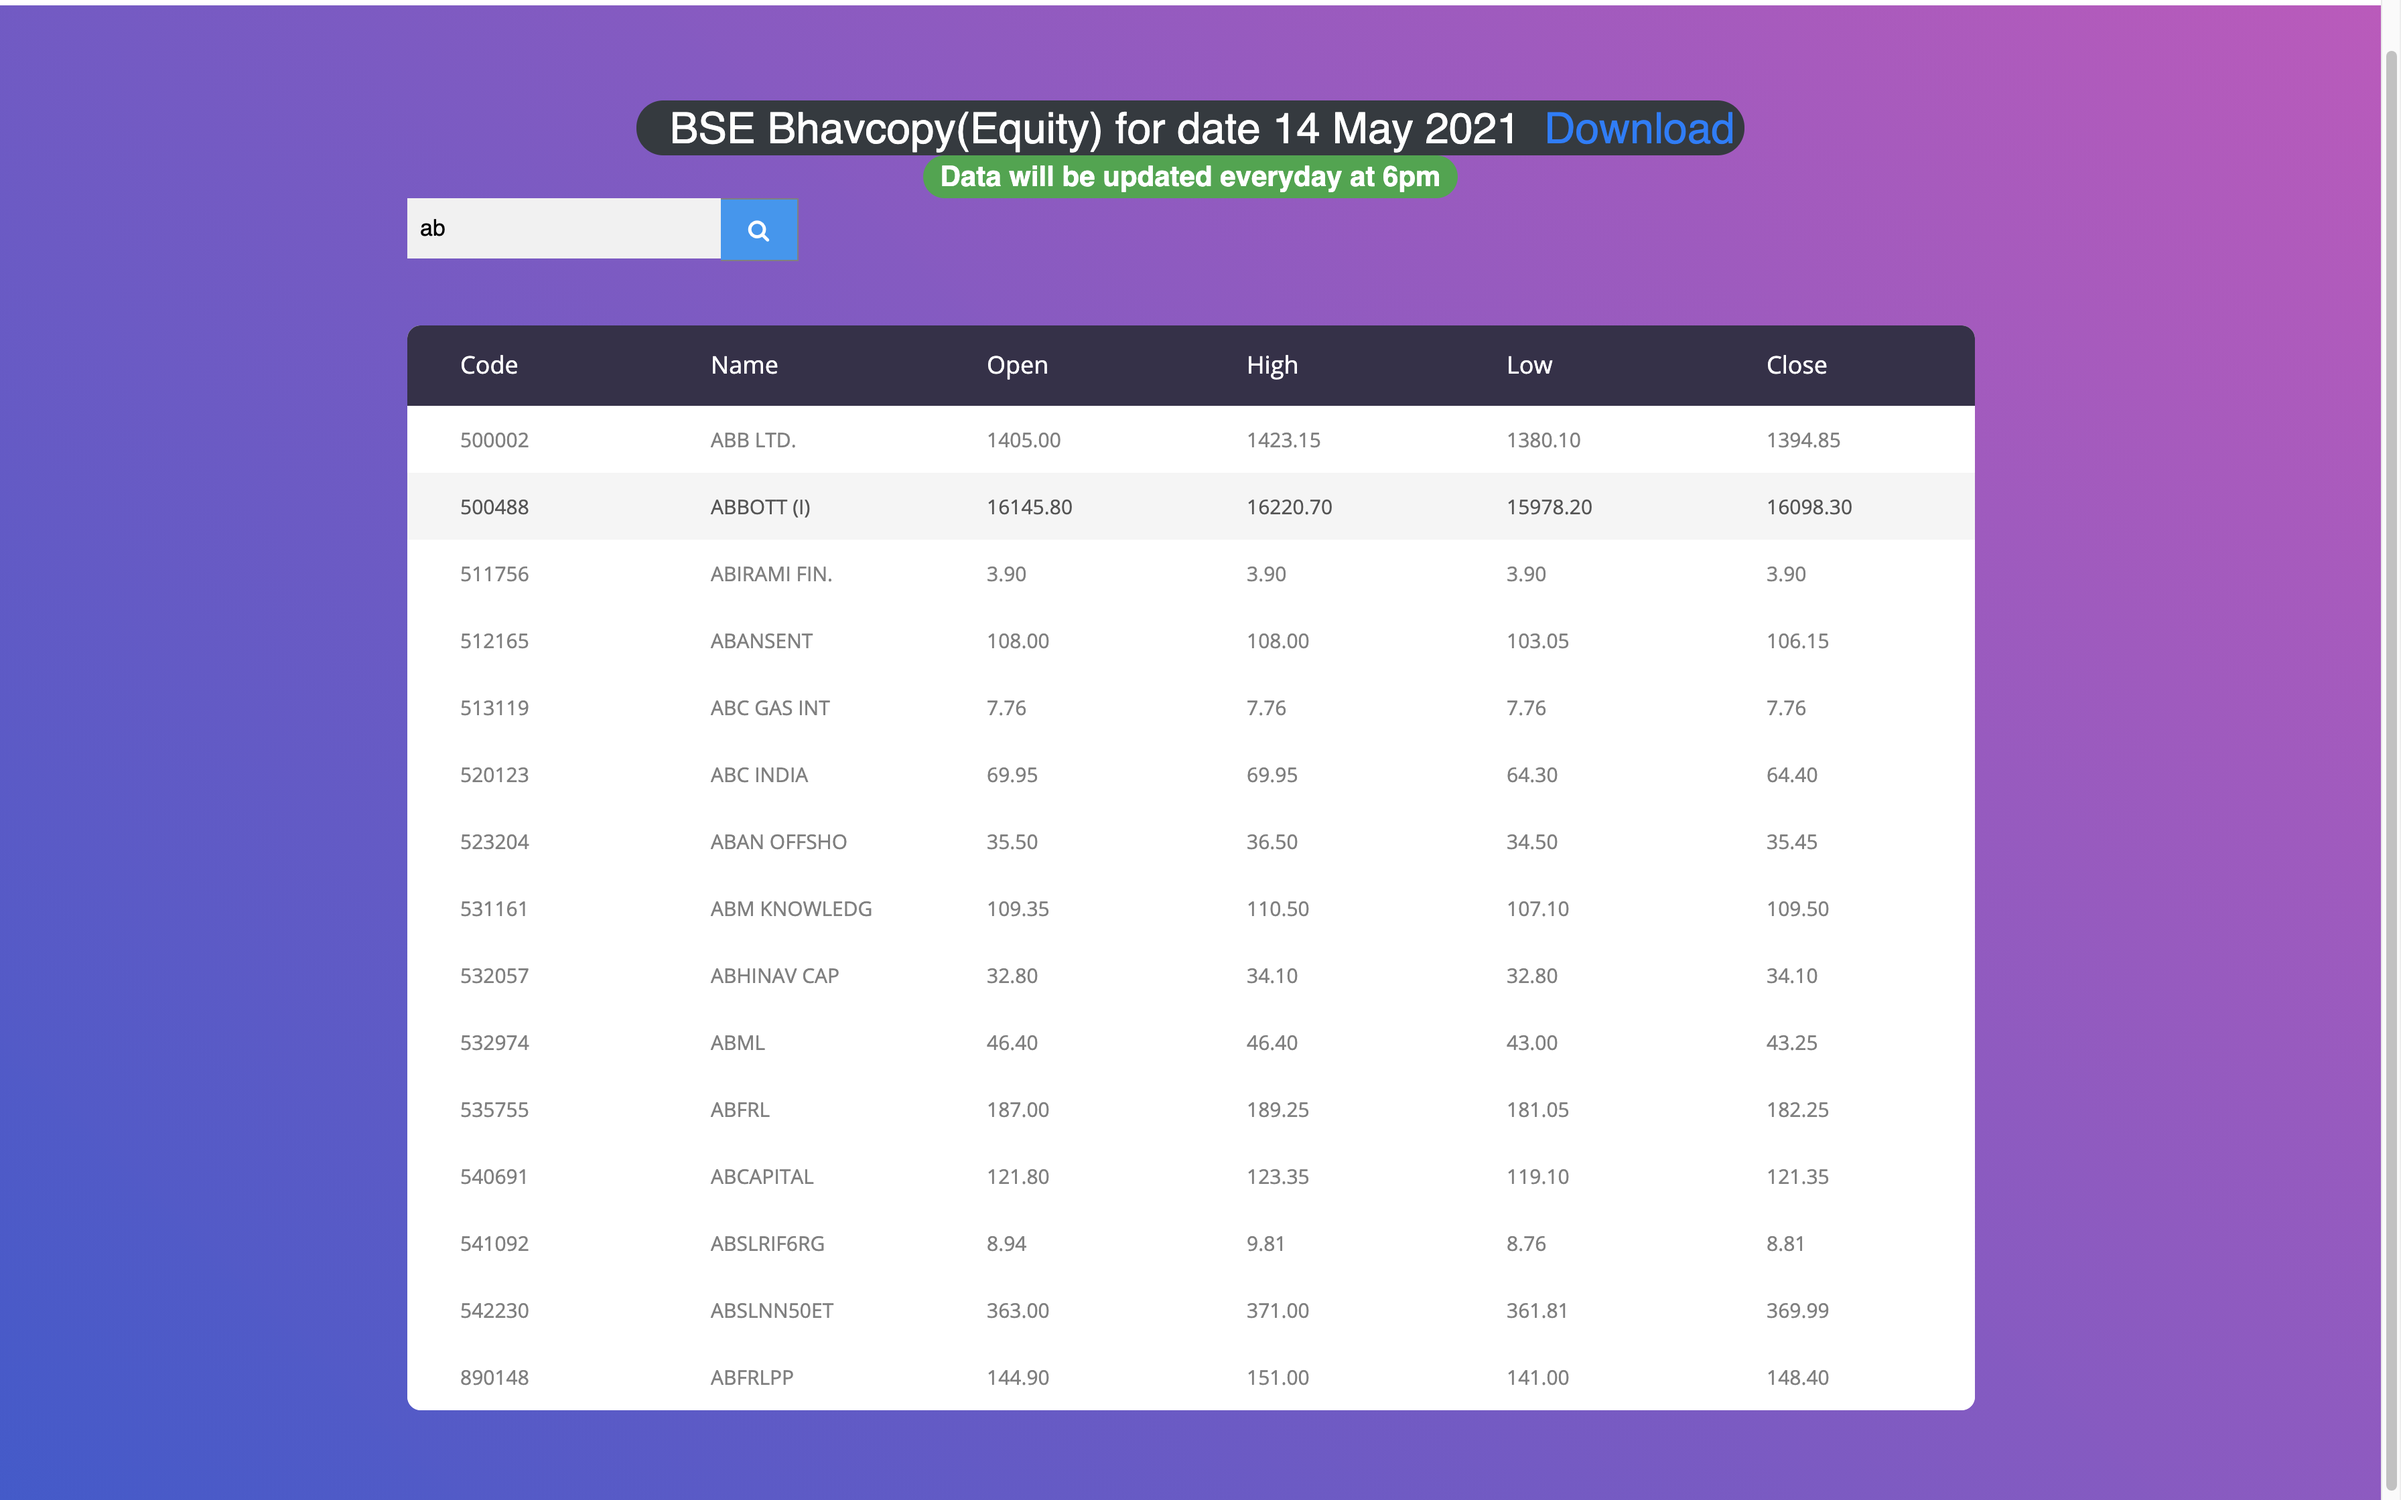
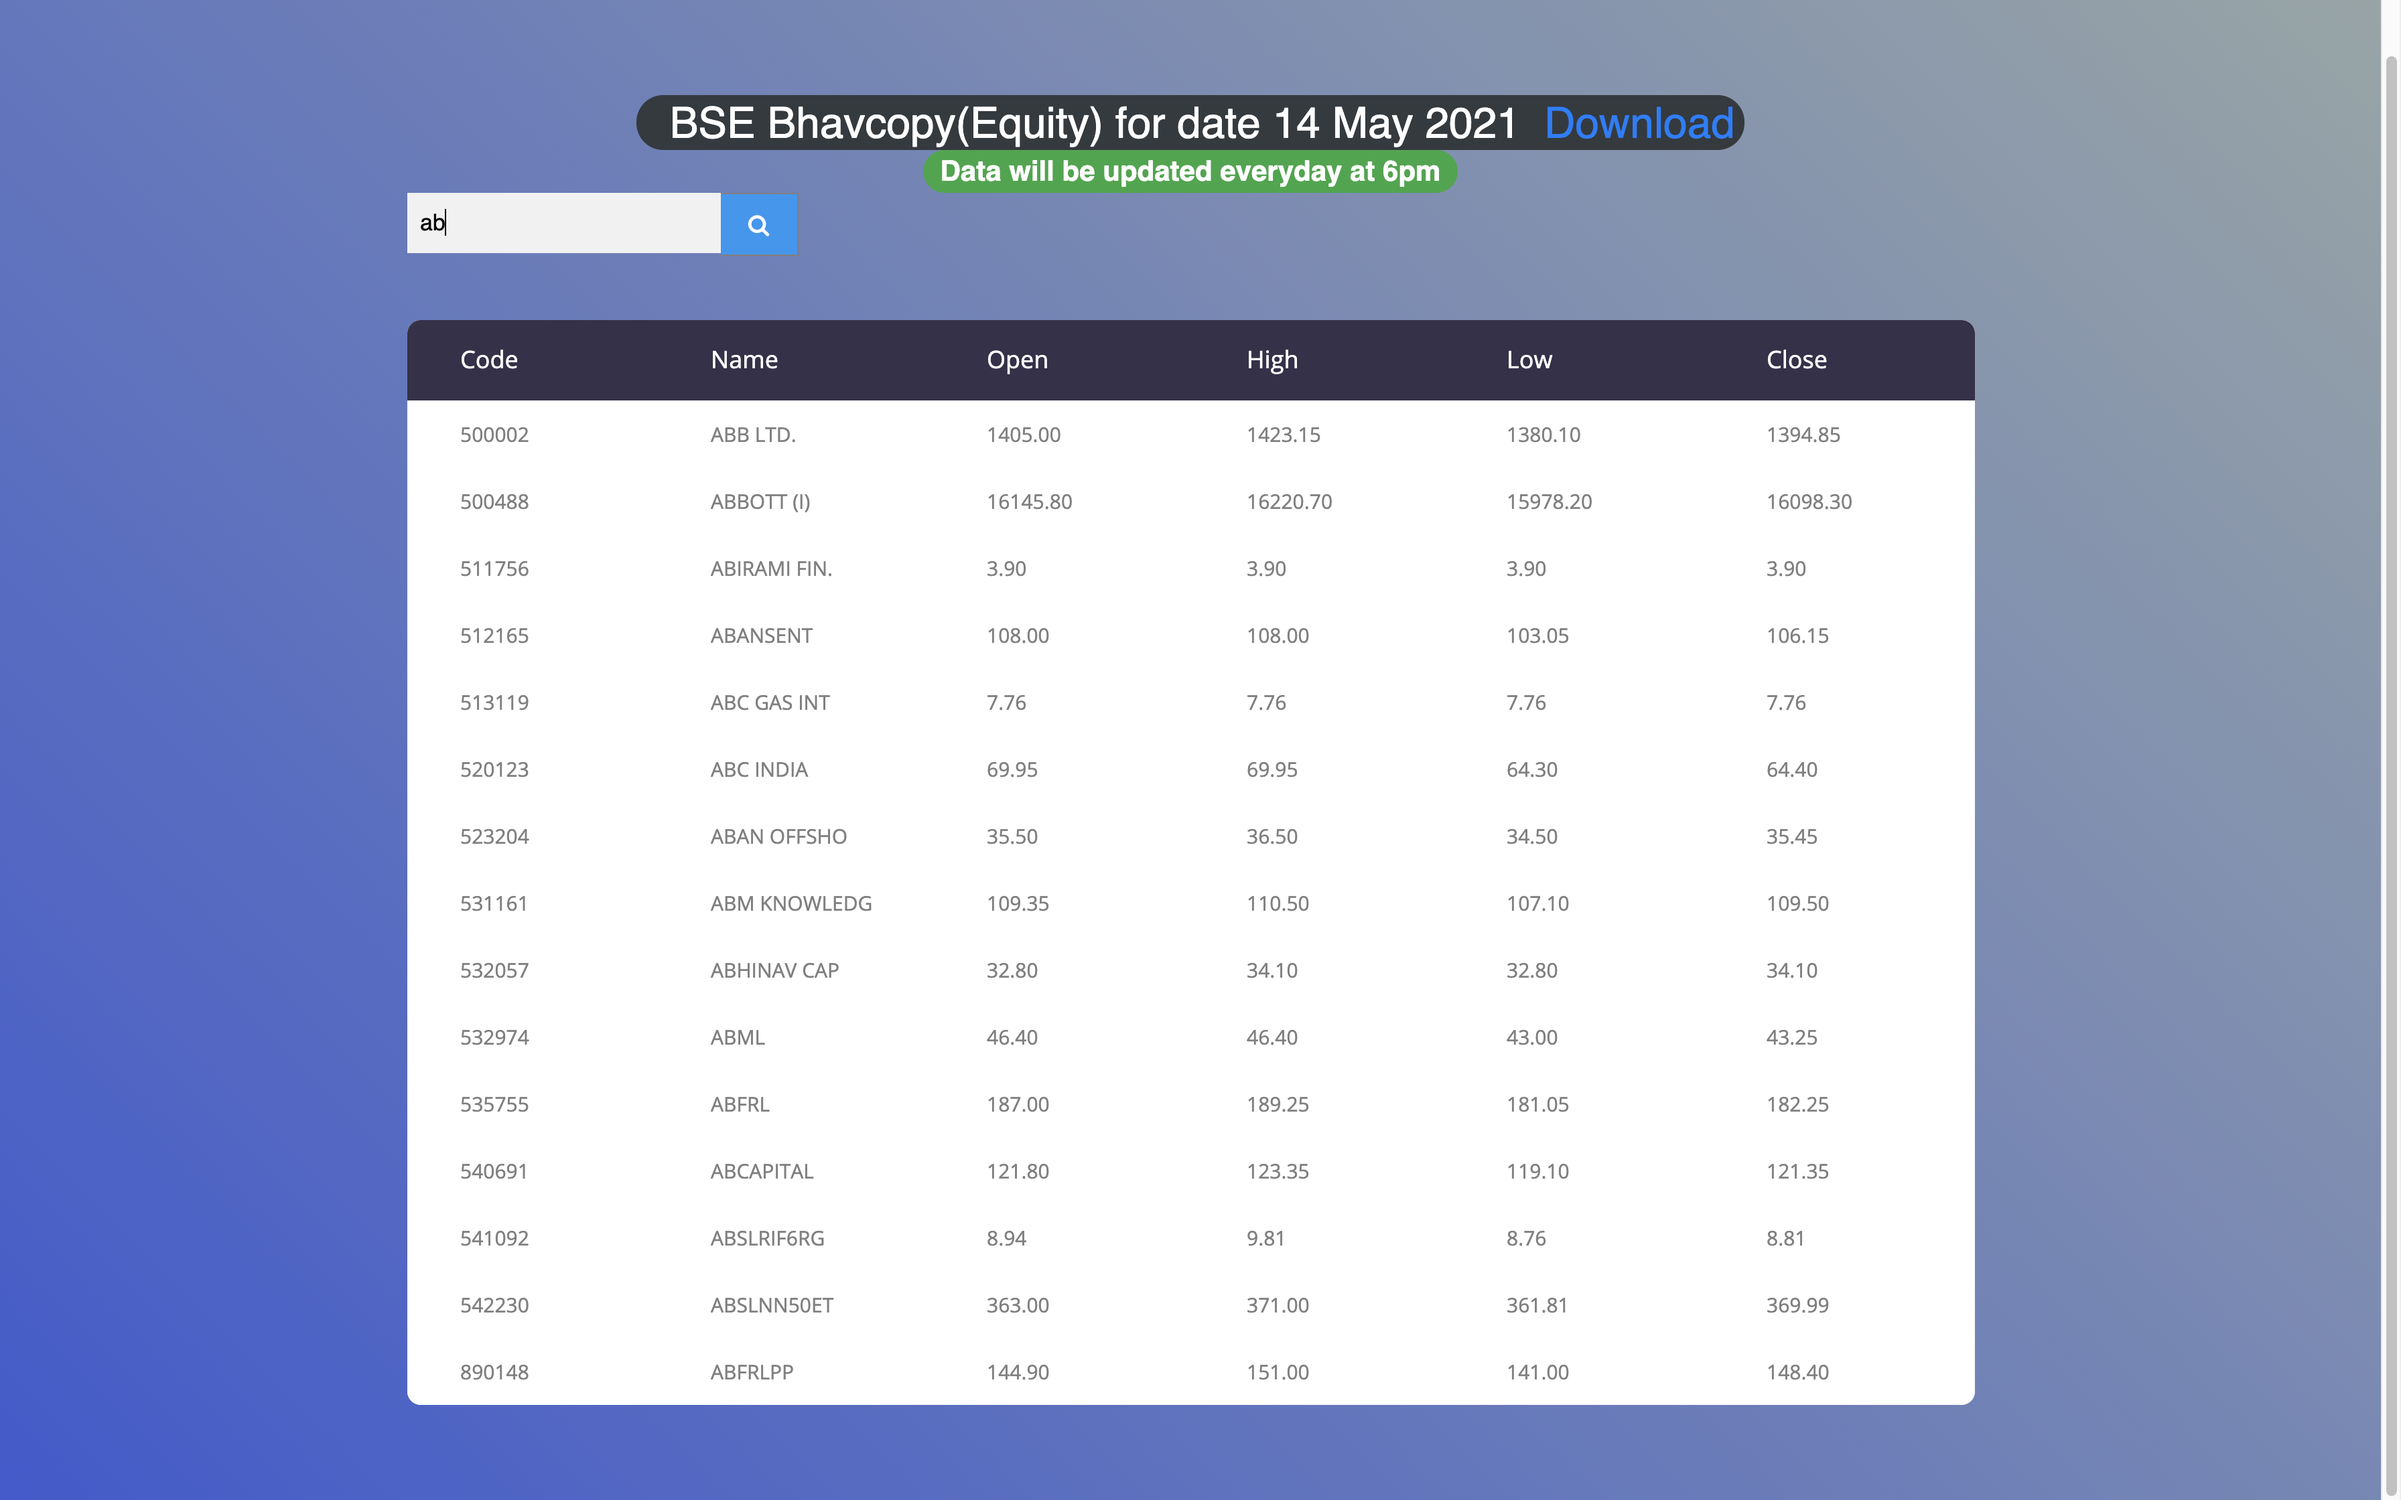
demo images added

diff --git a/static/table3/css/main.css b/static/table3/css/main.css
@@ -106,11 +106,11 @@ iframe {
   width: 100%;
   min-height: 100vh;
 
-  background: #c850c0;
-  background: -webkit-linear-gradient(45deg, #4158d0, #c850c0);
-  background: -o-linear-gradient(45deg, #4158d0, #c850c0);
-  background: -moz-linear-gradient(45deg, #4158d0, #c850c0);
-  background: linear-gradient(45deg, #4158d0, #c850c0);
+  background: #95A5A6;
+  background: -webkit-linear-gradient(45deg, #4158d0, #95A5A6);
+  background: -o-linear-gradient(45deg, #4158d0, #95A5A6);
+  background: -moz-linear-gradient(45deg, #4158d0, #95A5A6);
+  background: linear-gradient(45deg, #4158d0, #95A5A6);
 
   display: -webkit-box;
   display: -webkit-flex;
